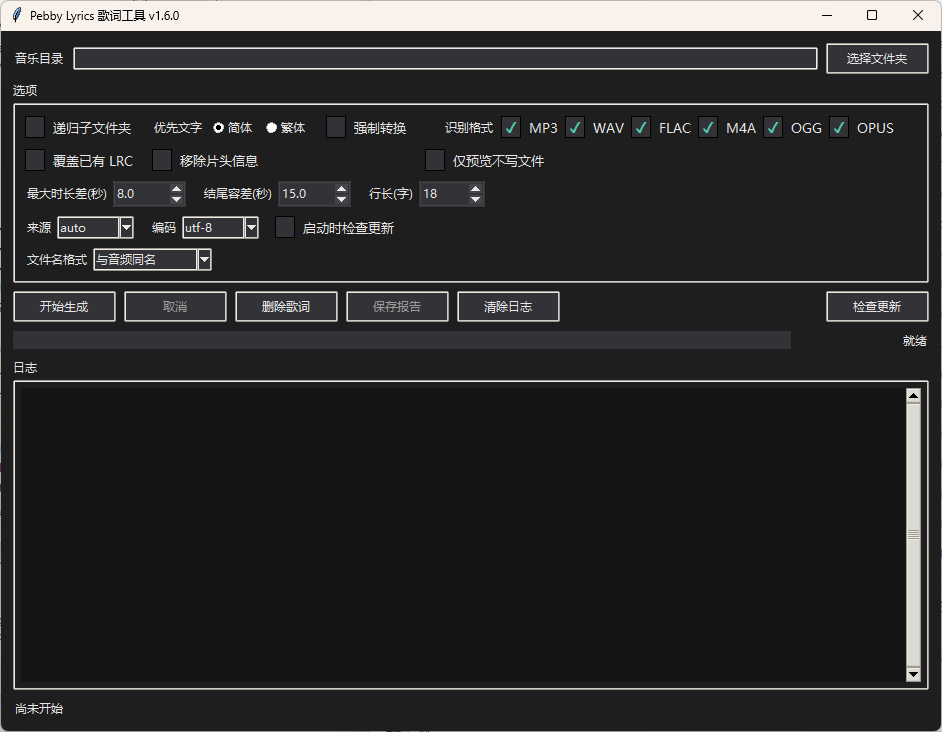
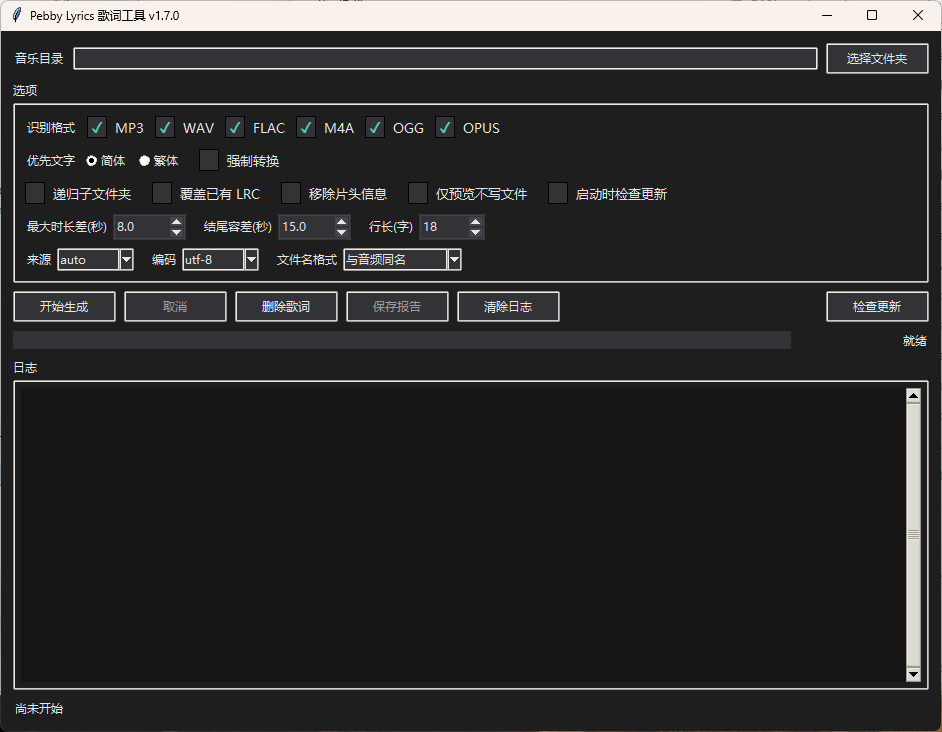
重排选项为五行，精简预览日志（v1.7.0）
1) 选项区改成五行，按使用频率从“筛格式”到“来源/编码/文件名格式”排：
   第一行 识别格式；第二行 优先文字 + 强制转换；第三行 递归/覆盖/移除片头/
   仅预览/启动检查更新；第四行 三个阈值；第五行 来源、编码、文件名格式。

2) 跑完不再重复打印“预览文件目录”那一行（开头已经说过写到哪）。

3) 单条预览的链接文案从“（点击用记事本打开）”改成“（点击预览）”，
   实际行为本来就是打开应用内查看器。

Changed region(s): [[0.0, 0.1503, 0.9544, 0.3907], [0.0, 0.9918, 1.0, 1.0]]

diff --git a/lrc_gui.py b/lrc_gui.py
@@ -334,35 +334,36 @@ class LrcApp:
 
         options = ttk.LabelFrame(main, text="选项", padding=10)
         options.grid(row=1, column=0, sticky="ew", pady=(0, 8))
-        options.columnconfigure(1, weight=1)
-        options.columnconfigure(3, weight=1)
+        options.columnconfigure(0, weight=1)
 
-        CheckItem(options, text="递归子文件夹", variable=self.recursive_var).grid(
-            row=0, column=0, sticky="w", padx=(0, 18))
-        prefer = ttk.Frame(options)
-        prefer.grid(row=0, column=1, sticky="w")
-        ttk.Label(prefer, text="优先文字").pack(side="left", padx=(0, 6))
-        ttk.Radiobutton(prefer, text="简体", value="simplified", variable=self.prefer_var).pack(side="left")
-        ttk.Radiobutton(prefer, text="繁体", value="traditional", variable=self.prefer_var).pack(
-            side="left", padx=(8, 0))
-        CheckItem(prefer, text="强制转换", variable=self.convert_var).pack(side="left", padx=(18, 0))
+        formats_row = ttk.Frame(options)
+        formats_row.grid(row=0, column=0, sticky="w")
+        ttk.Label(formats_row, text="识别格式").pack(side="left", padx=(0, 10))
+        for suffix, label in FORMAT_OPTIONS:
+            CheckItem(formats_row, text=label, variable=self.format_vars[suffix]).pack(
+                side="left", padx=(0, 8))
 
-        ttk.Label(options, text="识别格式").grid(row=0, column=2, sticky="e", padx=(18, 6))
-        formats = ttk.Frame(options)
-        formats.grid(row=0, column=3, sticky="w")
-        for index, (suffix, label) in enumerate(FORMAT_OPTIONS):
-            CheckItem(formats, text=label, variable=self.format_vars[suffix]).grid(
-                row=0, column=index, padx=(0, 4))
+        prefer_row = ttk.Frame(options)
+        prefer_row.grid(row=1, column=0, sticky="w", pady=(8, 0))
+        ttk.Label(prefer_row, text="优先文字").pack(side="left", padx=(0, 6))
+        ttk.Radiobutton(prefer_row, text="简体", value="simplified",
+                        variable=self.prefer_var).pack(side="left")
+        ttk.Radiobutton(prefer_row, text="繁体", value="traditional",
+                        variable=self.prefer_var).pack(side="left", padx=(8, 0))
+        CheckItem(prefer_row, text="强制转换", variable=self.convert_var).pack(
+            side="left", padx=(18, 0))
 
-        CheckItem(options, text="覆盖已有 LRC", variable=self.overwrite_var).grid(
-            row=1, column=0, sticky="w", pady=(8, 0))
-        CheckItem(options, text="移除片头信息", variable=self.credits_var).grid(
-            row=1, column=1, sticky="w", pady=(8, 0))
-        CheckItem(options, text="仅预览不写文件", variable=self.preview_var).grid(
-            row=1, column=2, columnspan=2, sticky="w", pady=(8, 0))
+        flags_row = ttk.Frame(options)
+        flags_row.grid(row=2, column=0, sticky="w", pady=(8, 0))
+        for text, variable in (("递归子文件夹", self.recursive_var),
+                               ("覆盖已有 LRC", self.overwrite_var),
+                               ("移除片头信息", self.credits_var),
+                               ("仅预览不写文件", self.preview_var),
+                               ("启动时检查更新", self.check_updates_var)):
+            CheckItem(flags_row, text=text, variable=variable).pack(side="left", padx=(0, 18))
 
         limits = ttk.Frame(options)
-        limits.grid(row=2, column=0, columnspan=4, sticky="w", pady=(8, 0))
+        limits.grid(row=3, column=0, sticky="w", pady=(8, 0))
         ttk.Label(limits, text="最大时长差(秒)").pack(side="left")
         ttk.Spinbox(limits, from_=0.0, to=60.0, increment=0.5, width=6,
                     textvariable=self.duration_var).pack(side="left", padx=(4, 16))
@@ -373,22 +374,17 @@ class LrcApp:
         ttk.Spinbox(limits, from_=0, to=80, increment=1, width=5,
                     textvariable=self.max_line_var).pack(side="left", padx=(4, 16))
 
-        advanced = ttk.Frame(options)
-        advanced.grid(row=3, column=0, columnspan=4, sticky="w", pady=(8, 0))
-        ttk.Label(advanced, text="来源").pack(side="left")
-        ttk.Combobox(advanced, width=8, state="readonly", textvariable=self.source_var,
+        extra = ttk.Frame(options)
+        extra.grid(row=4, column=0, sticky="w", pady=(8, 0))
+        ttk.Label(extra, text="来源").pack(side="left")
+        ttk.Combobox(extra, width=8, state="readonly", textvariable=self.source_var,
                      values=("auto", "qq", "lrclib")).pack(side="left", padx=(4, 16))
-        ttk.Label(advanced, text="编码").pack(side="left")
-        ttk.Combobox(advanced, width=8, state="readonly", textvariable=self.encoding_var,
+        ttk.Label(extra, text="编码").pack(side="left")
+        ttk.Combobox(extra, width=8, state="readonly", textvariable=self.encoding_var,
                      values=("utf-8", "gbk")).pack(side="left", padx=(4, 16))
-        CheckItem(advanced, text="启动时检查更新", variable=self.check_updates_var).pack(
-            side="left")
-
-        naming = ttk.Frame(options)
-        naming.grid(row=4, column=0, columnspan=4, sticky="w", pady=(8, 0))
-        ttk.Label(naming, text="文件名格式").pack(side="left")
-        ttk.Combobox(naming, width=14, state="readonly", textvariable=self.name_format_var,
-                     values=tuple(core.NAME_FORMATS.values())).pack(side="left", padx=(4, 8))
+        ttk.Label(extra, text="文件名格式").pack(side="left")
+        ttk.Combobox(extra, width=14, state="readonly", textvariable=self.name_format_var,
+                     values=tuple(core.NAME_FORMATS.values())).pack(side="left", padx=(4, 0))
 
         actions = ttk.Frame(main)
         actions.grid(row=2, column=0, sticky="ew", pady=(0, 8))
@@ -901,7 +897,7 @@ class LrcApp:
             self._log_result_detail(result)
             if result.get("preview_path"):
                 self._log_link(
-                    f"  预览文件：{Path(result['preview_path']).name}（点击用记事本打开）",
+                    f"  预览文件：{Path(result['preview_path']).name}（点击预览）",
                     result["preview_path"], self._open_preview_file)
             if result.get("preview_error"):
                 self._log("warn", f"  {result['preview_error']}")
@@ -943,9 +939,6 @@ class LrcApp:
         summary = prefix + "，".join(parts)
         self.summary_label.configure(text=f"完成：{summary}")
         self._log("summary", f"全部完成：{summary}")
-        if previewed and self.preview_dir is not None:
-            self._log_link(f"预览文件目录：{self.preview_dir}（点击复制路径）",
-                           self.preview_dir, self._copy_path)
         for error in errors:
             self._log("warn", f"扫描警告：{error}")
         self._save_settings()

diff --git a/version.py b/version.py
@@ -5,4 +5,4 @@ GUI 标题、`--version`、更新检查和打包脚本都从这里读，
 避免界面、exe 名称和 GitHub tag 三处写死后互相对不上。
 """
 
-__version__ = "1.6.0"
+__version__ = "1.7.0"

diff --git a/README.md b/README.md
@@ -128,7 +128,7 @@ cd pebby-lyrics
 ## 常见问题
 
 **“仅预览不写文件”是做什么的，去哪看**
-试跑：照常联网查询、校验、拆行，但不会生成正式的 `.lrc`。预览文件写在**音乐目录下的 `_pebby_preview\<时间戳>\`**，日志里每条预览都是一行蓝色可点击链接，点开是**应用内查看器**（能看到全文、复制、需要时再点“用记事本打开”）。日志里“预览文件目录”那一行点一下是**复制路径**，不会去打开资源管理器。**关闭程序时会自动删掉本次的预览目录**。命令行等价写法：`--dry-run --preview-dir <目录>`。
+试跑：照常联网查询、校验、拆行，但不会生成正式的 `.lrc`。预览文件写在**音乐目录下的 `_pebby_preview\<时间戳>\`**；开始运行时日志里会有一行“预览文件会写到 …（点击复制路径）”，每条预览结果后面是可点击的“预览文件：xxx.lrc（点击预览）”，点开是**应用内查看器**（能看到全文、复制、需要时再点“用记事本打开”）。**关闭程序时会自动删掉本次的预览目录**。命令行等价写法：`--dry-run --preview-dir <目录>`。
 
 ![预览查看器](docs/preview-viewer.png)
 
